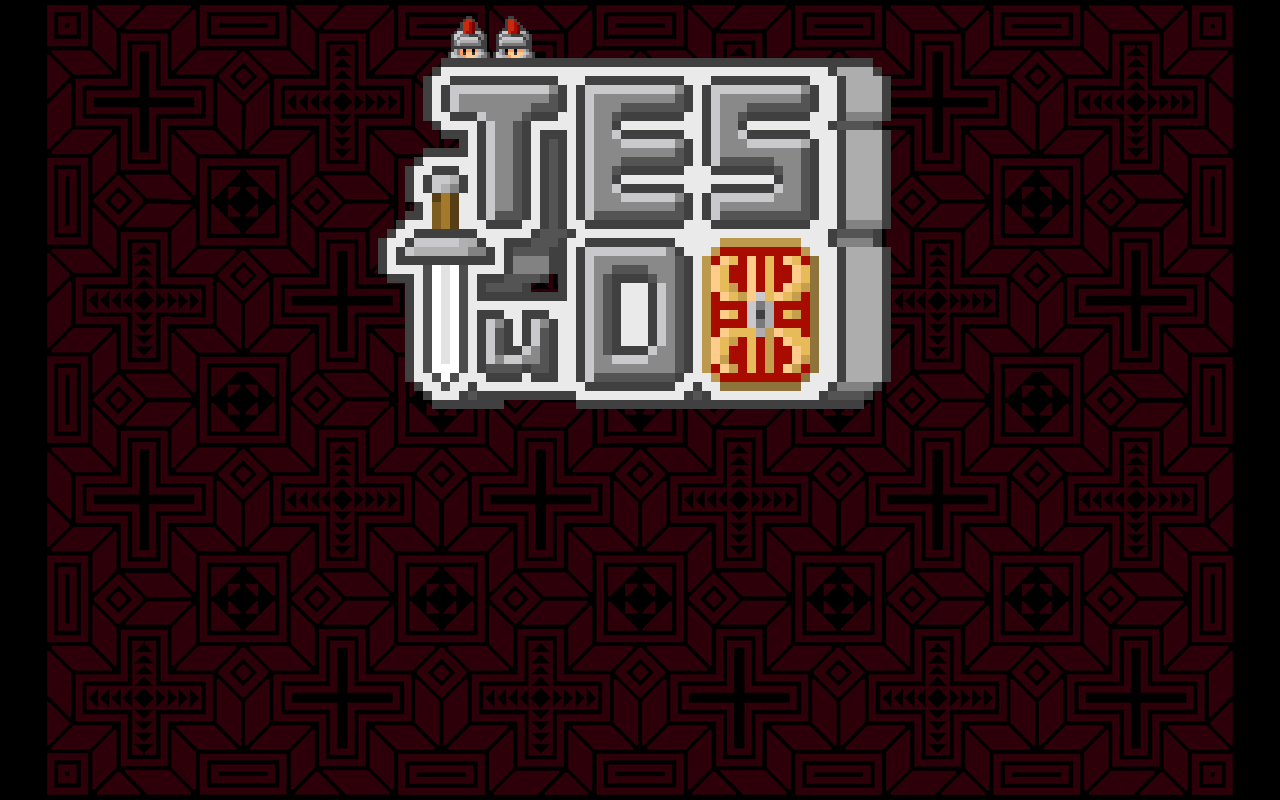
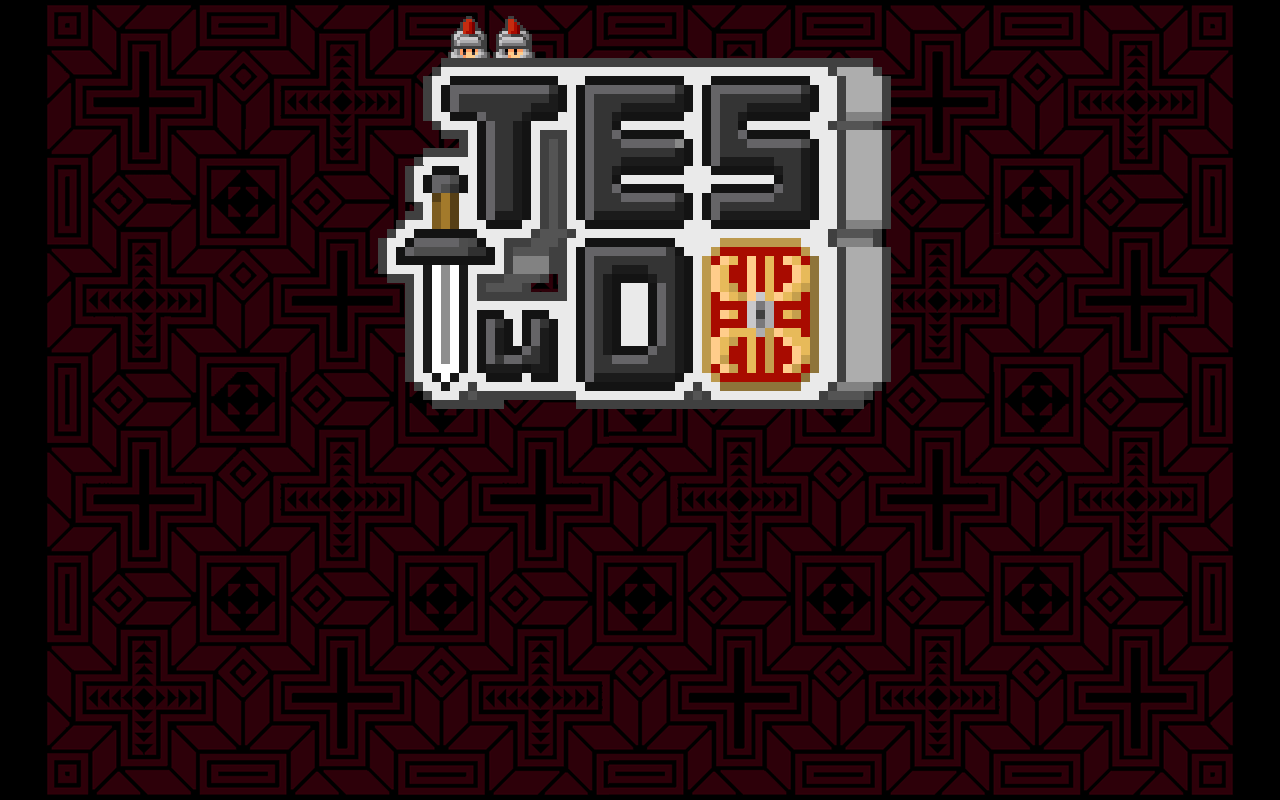
타이틀바꿈,버그수정
ㅇ

Changed region(s): [[0.3125, 0.0938, 0.6562, 0.5]]

diff --git a/Cocos_practice/Classes/GameScene.cpp b/Cocos_practice/Classes/GameScene.cpp
@@ -52,8 +52,9 @@ bool GameScene::init()
 //	Mouse Event
 	EventListenerMouse* clickListener = EventListenerMouse::create();
 	clickListener->onMouseDown = CC_CALLBACK_1(GameScene::MouseDownDispatcher,this);
-	_eventDispatcher->addEventListenerWithSceneGraphPriority(clickListener, this);
-
+	
+	//_eventDispatcher->addEventListenerWithSceneGraphPriority(clickListener, this);
+	_eventDispatcher->addEventListenerWithFixedPriority(clickListener, 99999);
 //	Keyboard Event
 	EventListenerKeyboard* keylistener = EventListenerKeyboard::create();
 	keylistener->onKeyReleased = CC_CALLBACK_2(GameSceneManager::KeyReleasedDispatcher, gmInstance);

diff --git a/Cocos_practice/Classes/GameSceneManager.cpp b/Cocos_practice/Classes/GameSceneManager.cpp
@@ -185,7 +185,17 @@ void GameSceneManager::MoveCharacterByClick(Self_Tile* clickedTile)
 
 		_CharacterToMove = nullptr;
 		_ReadyToMove = false;
-		Unselect();
+		
+		_Nodes->runAction(
+			Sequence::create(
+				DelayTime::create(0.25),
+				CallFunc::create([this](){
+					Unselect();
+				}),
+				nullptr));
+
+		
+		
 		return;
 	}
 
